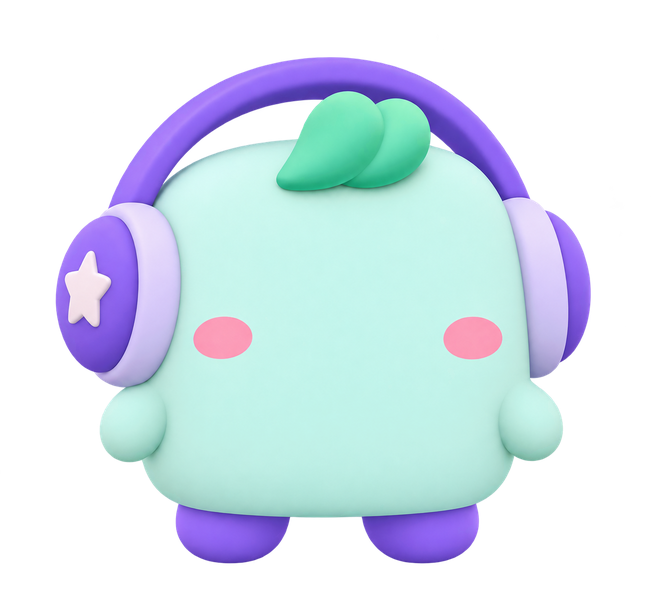
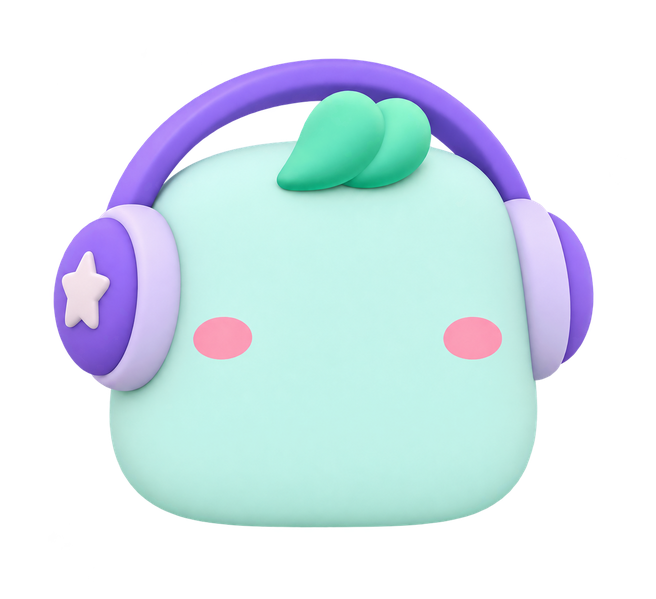
feat(mascot): add separate arms and feet pieces with pivots

diff --git a/apps/desktop/src/modules/mascot/constants/assets.ts b/apps/desktop/src/modules/mascot/constants/assets.ts
@@ -1,3 +1,7 @@
+import armLeft from '@/modules/mascot/assets/arm-left.png';
+import armRight from '@/modules/mascot/assets/arm-right.png';
+import armWave from '@/modules/mascot/assets/arm-wave.png';
+// The previous body, with arms and feet drawn in: assets/body-legacy.png.
 import body from '@/modules/mascot/assets/body.png';
 import eyeHappyLeft from '@/modules/mascot/assets/eye-happy-left.png';
 import eyeHappyRight from '@/modules/mascot/assets/eye-happy-right.png';
@@ -5,6 +9,8 @@ import eyeLeft from '@/modules/mascot/assets/eye-left.png';
 import eyeRight from '@/modules/mascot/assets/eye-right.png';
 import fileImage from '@/modules/mascot/assets/file-image.png';
 import filePdf from '@/modules/mascot/assets/file-pdf.png';
+import footLeft from '@/modules/mascot/assets/foot-left.png';
+import footRight from '@/modules/mascot/assets/foot-right.png';
 import mouthLine from '@/modules/mascot/assets/mouth-line.png';
 import mouthO from '@/modules/mascot/assets/mouth-o.png';
 import mouthOpen from '@/modules/mascot/assets/mouth-open.png';
@@ -26,4 +32,9 @@ export const PIECE_ASSETS: Record<PieceName, string> = {
   'mouth-wavy'      : mouthWavy,
   'file-pdf'        : filePdf,
   'file-image'      : fileImage,
+  'arm-left'        : armLeft,
+  'arm-right'       : armRight,
+  'arm-wave'        : armWave,
+  'foot-left'       : footLeft,
+  'foot-right'      : footRight,
 };

diff --git a/apps/desktop/src/modules/mascot/constants/layout.ts b/apps/desktop/src/modules/mascot/constants/layout.ts
@@ -17,5 +17,10 @@ export const MASCOT_LAYOUT: MascotLayout = {
     'mouth-wavy'      : { x: 47.056, y: 52.113, w: 12.214 },
     'file-pdf'        : { x: 46.082, y: 62.706, w: 14.085 },
     'file-image'      : { x: 44.676, y: 63.57,  w: 16.898 },
+    'arm-left'        : { x: 8.537,  y: 62.135, w: 14.014, layer: 'behind-body', pivot: { x: 88, y: 35 } },
+    'arm-right'       : { x: 77.439, y: 62.135, w: 13.97,  layer: 'behind-body', pivot: { x: 12, y: 35 } },
+    'arm-wave'        : { x: 81.555, y: 43.369, w: 17.683, layer: 'behind-body', pivot: { x: 12, y: 88 } },
+    'foot-left'       : { x: 26.829, y: 83.403, w: 16.902, layer: 'behind-body', pivot: { x: 50, y: 10 } },
+    'foot-right'      : { x: 55.869, y: 83.403, w: 16.817, layer: 'behind-body', pivot: { x: 50, y: 10 } },
   },
 };

diff --git a/apps/desktop/src/modules/mascot/utils/pieceStyle.ts b/apps/desktop/src/modules/mascot/utils/pieceStyle.ts
@@ -12,6 +12,16 @@ export const getPieceStyle = (name: PieceName): CSSProperties => {
   };
 };
 
+// Limbs rotate around their own pivot.
+export const getLimbStyle = (name: PieceName): CSSProperties => {
+  const pivot = MASCOT_LAYOUT.pieces[name].pivot;
+
+  return {
+    ...getPieceStyle(name),
+    transformOrigin: pivot ? `${pivot.x}% ${pivot.y}%` : undefined,
+  };
+};
+
 export const getBodyAspectRatio = (): string => `${MASCOT_LAYOUT.base.width} / ${MASCOT_LAYOUT.base.height}`;
 
 export const getVisibilityClass = (visible: boolean): string => (visible ? 'opacity-100' : 'opacity-0');

diff --git a/apps/desktop/src/modules/mascot/interfaces/layout.ts b/apps/desktop/src/modules/mascot/interfaces/layout.ts
@@ -1,9 +1,20 @@
 import type { PieceName } from '@/modules/mascot/types/pieceName';
 
-export interface PieceLayout {
+// 'behind-body': drawn before the body (arms and feet).
+export type PieceLayer = 'behind-body';
+
+// Rotation point in % of the piece itself, used as transform-origin.
+export interface Pivot {
   x : number;
   y : number;
-  w : number;
+}
+
+export interface PieceLayout {
+  x      : number;
+  y      : number;
+  w      : number;
+  layer? : PieceLayer;
+  pivot? : Pivot;
 }
 
 export interface BaseSize {

diff --git a/apps/desktop/src/modules/mascot/types/pieceName.ts b/apps/desktop/src/modules/mascot/types/pieceName.ts
@@ -1,3 +1,5 @@
+import type { LimbName } from '@/modules/mascot/types/limbName';
+
 export type PieceName =
   | 'eye-left'
   | 'eye-right'
@@ -9,4 +11,5 @@ export type PieceName =
   | 'mouth-line'
   | 'mouth-wavy'
   | 'file-pdf'
-  | 'file-image';
+  | 'file-image'
+  | LimbName;

diff --git a/apps/desktop/src/modules/mascot/types/limbName.ts b/apps/desktop/src/modules/mascot/types/limbName.ts
@@ -1,0 +1,5 @@
+export type ArmName = 'arm-left' | 'arm-right' | 'arm-wave';
+
+export type FootName = 'foot-left' | 'foot-right';
+
+export type LimbName = ArmName | FootName;
